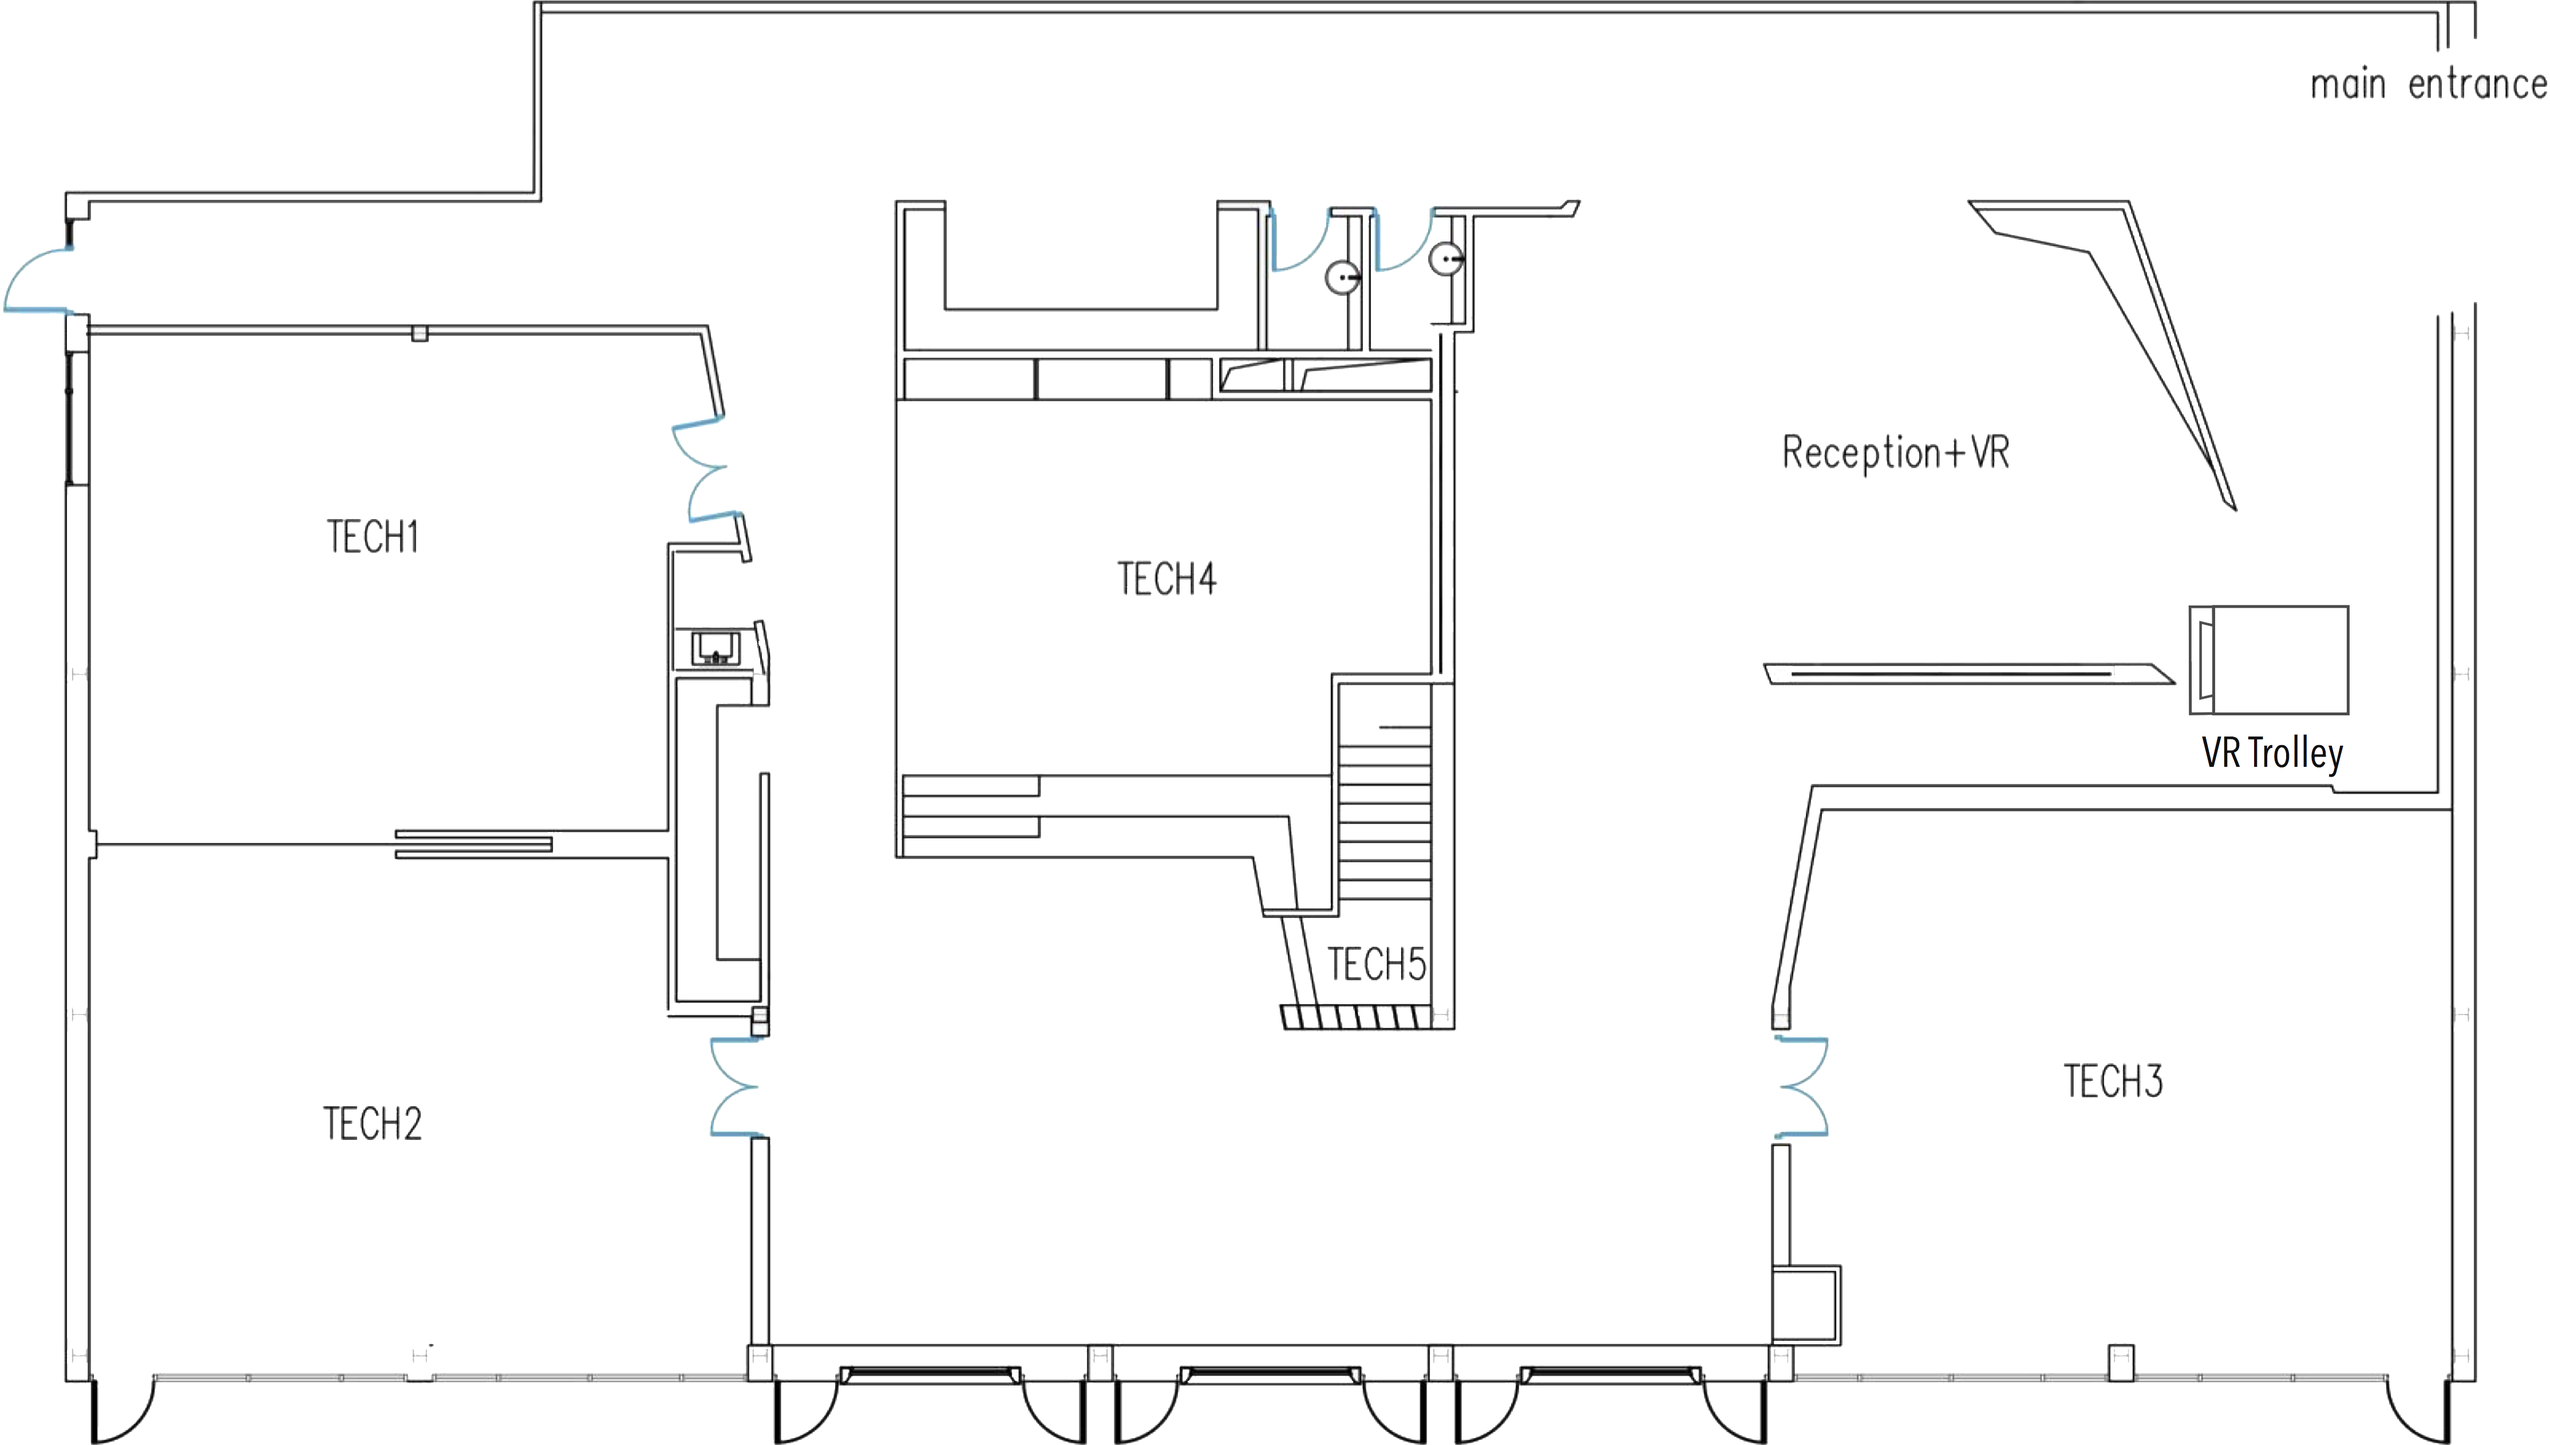
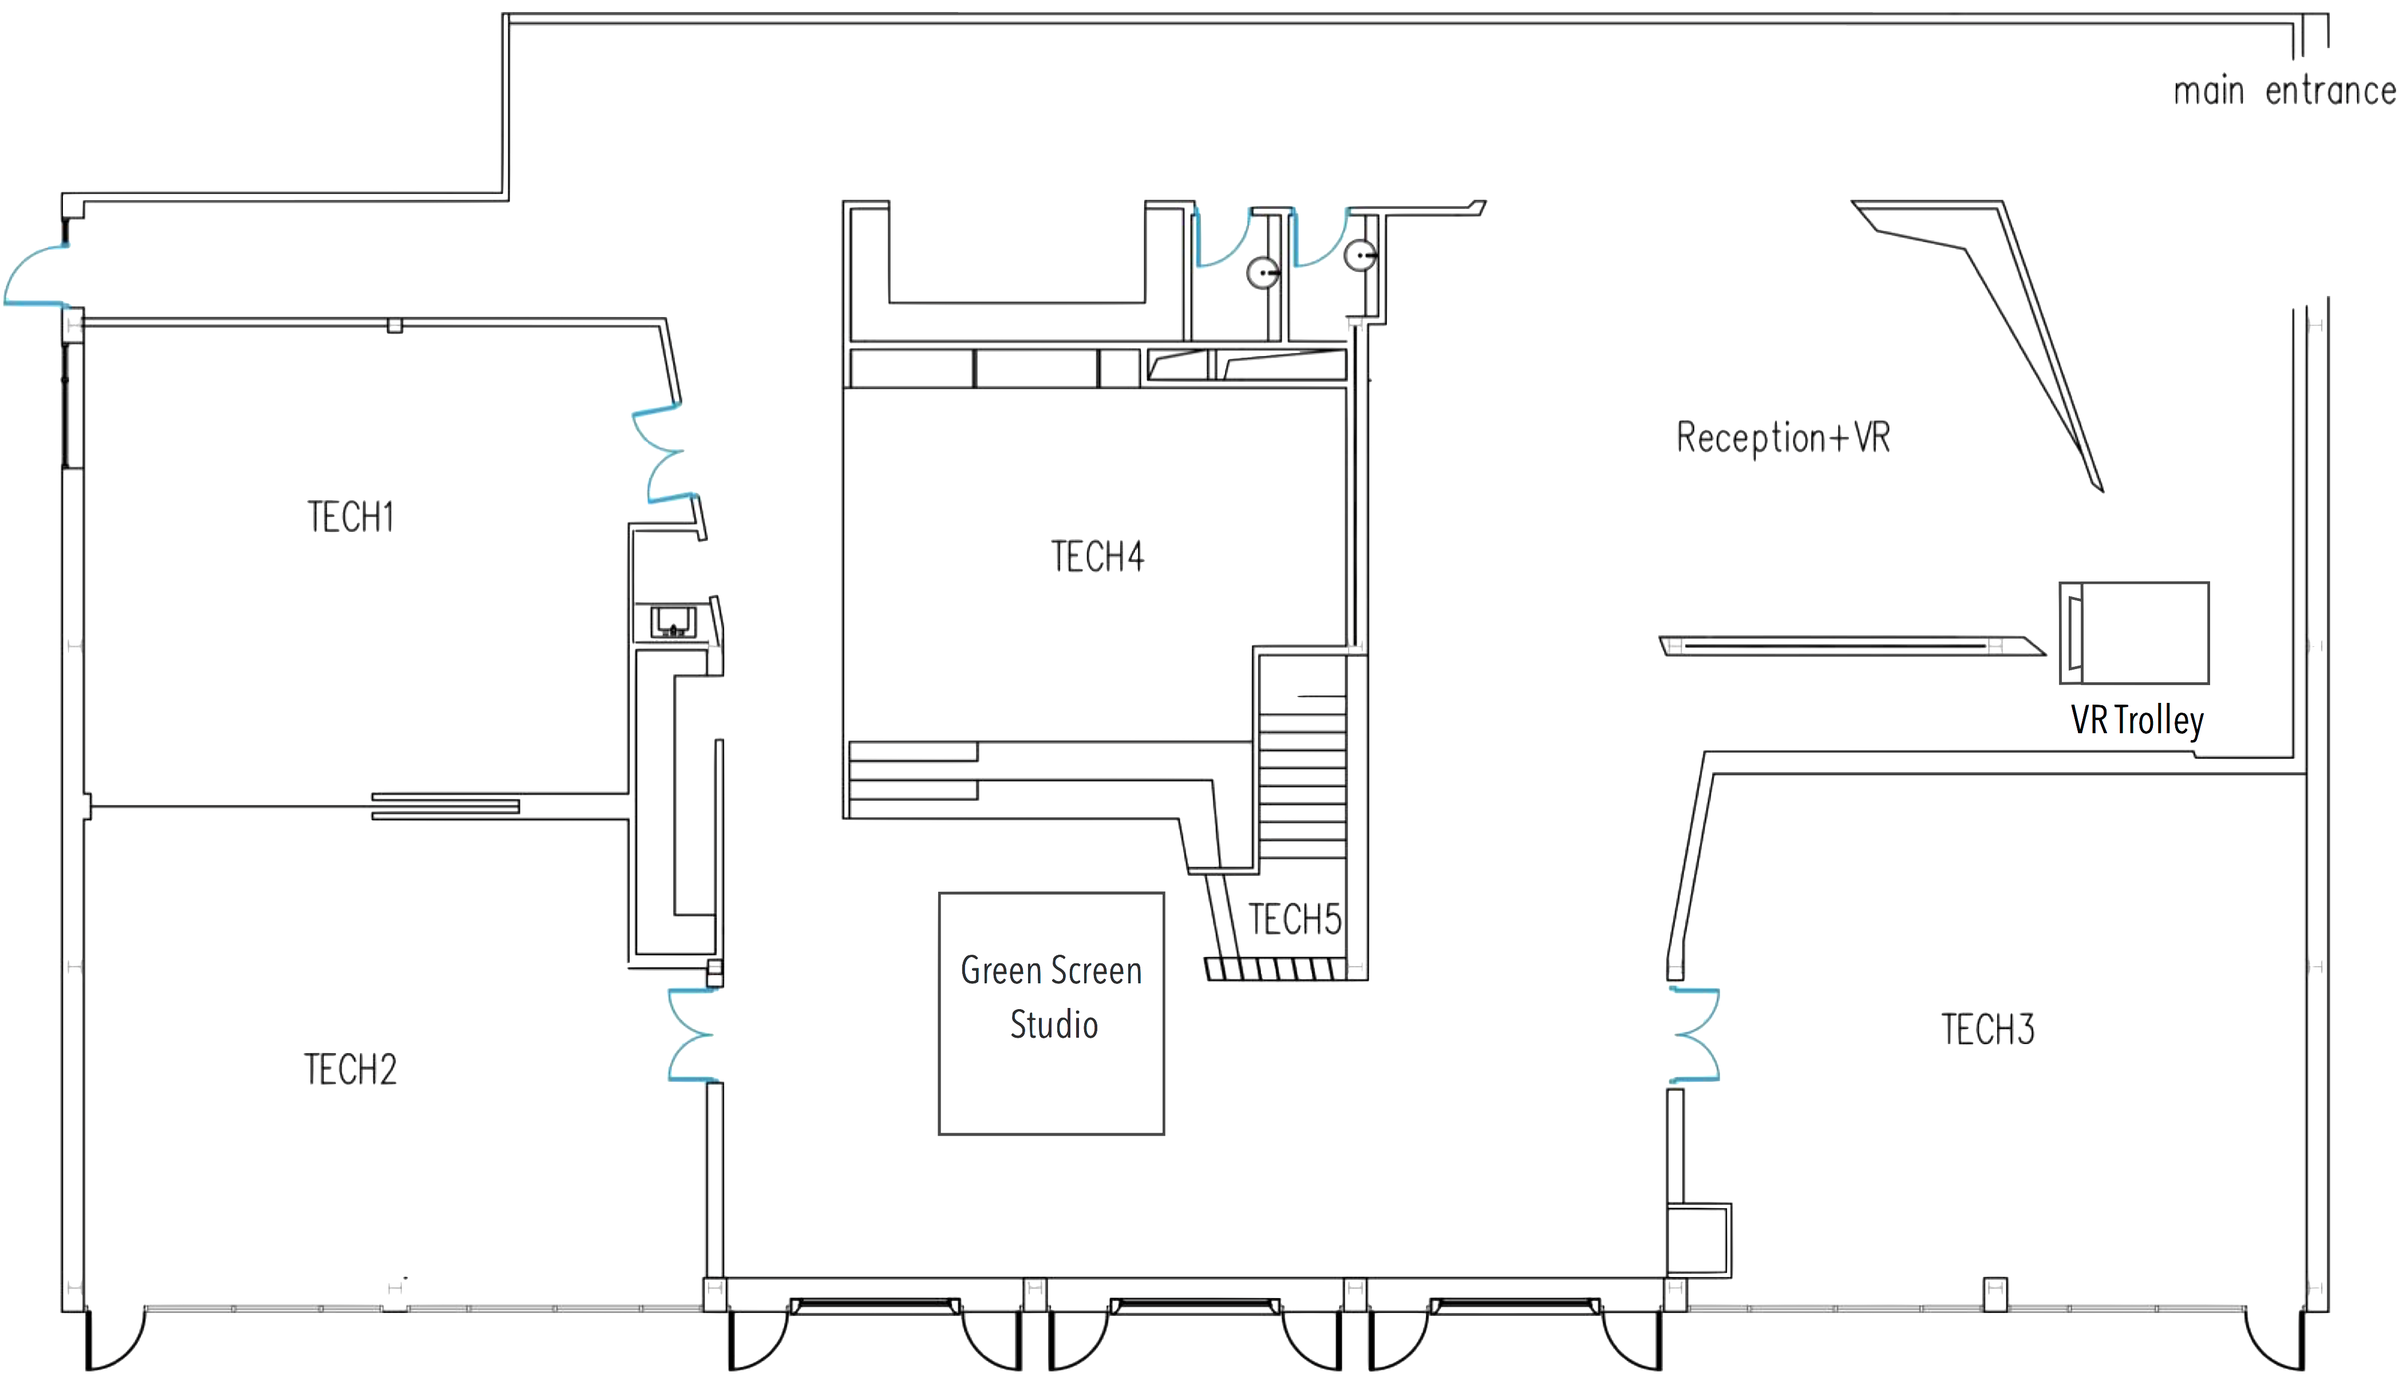
GSS upload First Beta test
Sorta untested code but extwnsibility of program should allow it to all work cohesviely. I hope, i kinda forgot how i designed it lol

diff --git a/JS/GenerateTable.js b/JS/GenerateTable.js
@@ -2032,6 +2032,24 @@ function loadinRoom(trueRoom, roomLoadWeek)
 						$("#whichWeekBtn").html("Previous Week");
 						$("#whichWeekBtn").attr("onClick","loadinRoom('VRT','1');$('#timeTableTitle').html('VR Trolley Timetable ["+weekBeginNow()+"]:');")
 					}
+					if(trueRoom == "GSS" && roomLoadWeek =="1")
+					{
+						$("#timeTableTitle").html("Greenscreen Studio Timetable ["+weekBeginNow()+"]:")
+
+
+
+						$("#whichWeekBtn").html("Next Week");
+						$("#whichWeekBtn").attr("onClick","loadinRoom('GSS','2');$('#timeTableTitle').html('Greenscreen Studio ["+weekBeginNext()+"]:');")
+					}
+					else if(trueRoom == "GSS" && roomLoadWeek =="2")
+					{
+						$("#timeTableTitle").html("Greenscreen Studio Timetable ["+weekBeginNext()+"]:")
+
+
+
+						$("#whichWeekBtn").html("Previous Week");
+						$("#whichWeekBtn").attr("onClick","loadinRoom('GSS','1');$('#timeTableTitle').html('Greenscreen Studio ["+weekBeginNow()+"]:');")
+					}
 					$(document).find('#timeTable').html(tbl);
 				},
 

diff --git a/Pages/Make_Booking.html b/Pages/Make_Booking.html
@@ -39,6 +39,7 @@
 			<div onClick="openModal(); loadinRoom('Tech5','1');" id="Tech5Btn"></div>
 			<div onClick="openModal(); loadinRoom('VR','1');" id="VRBtn"></div>
 			<div onClick="openModal(); loadinRoom('VRT','1');" id="VRTBtn"></div>
+			<div onClick="openModal(); loadinRoom('GSS','1');" id="GSSBtn"></div>
 		</div>
 		
 		<div id="errorModule">
@@ -185,6 +186,7 @@
 		<div id="uploadFileModal" class="modal">
 			<div class="uploadFileModal-content">
 				<span class="close4">&times;</span>
+				<em><p style="color:red;">Greenscreen Studio Upload Not Yet Supported</p></em>
 				<center>			
 					<div id="Options">
 						<strong><label>Choose a upload source:</label></strong>

diff --git a/JS/MAIN.js b/JS/MAIN.js
@@ -506,7 +506,7 @@ function newWeekClear(DeletionMode) // patch will retrieve bookings, used in the
 	
 	var PeriodArray = ["Period1","Period2","Break","Period3","Period4","Lunch","Period5","Period6","AfterschoolH1","AfterschoolH2"]
 		
-	var RoomArray = ["Tech1","Tech2","Tech3","Tech4","Tech5","VR","VRT"]
+	var RoomArray = ["Tech1","Tech2","Tech3","Tech4","Tech5","VR","VRT","GSS"]
 	
 	var i =0;
 	var a =0;

diff --git a/CSS/MAIN.css b/CSS/MAIN.css
@@ -284,6 +284,19 @@ body
 {
 	background-color: rgba(211,0,19,0.3)
 }
+#GSSBtn
+{
+	position: absolute;
+	top:372px;
+	left:316px;
+	height:88px;
+	width:75px;
+	cursor: pointer;
+}
+#GSSBtn:hover
+{
+	background-color: rgba(211,0,19,0.3)
+}
 #viewPort
 {
 	height: 150px;
